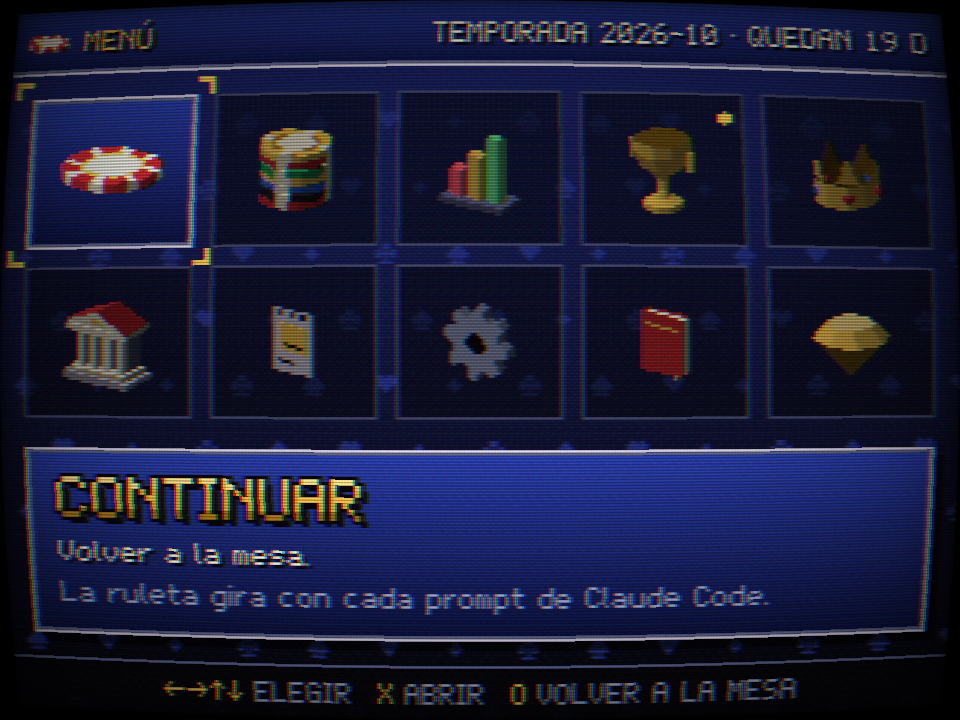
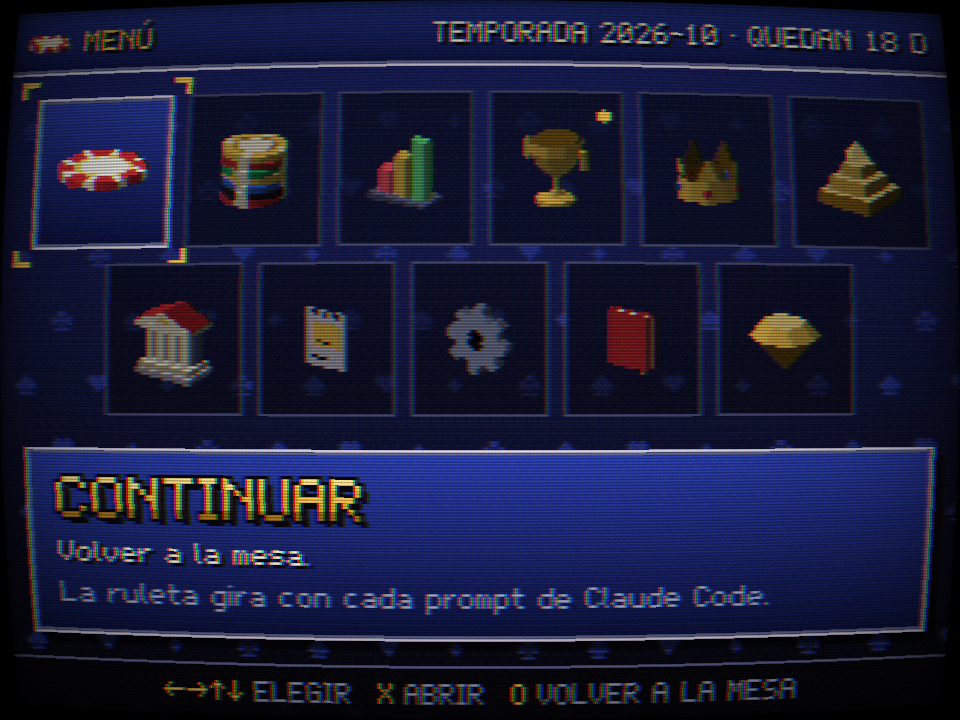
test(web): añade los E2E de /r/<código>, AFILIADOS y el aviso de comisión
Añade el guion fx=commission a la demo, la flecha de más contenido en
AFILIADOS, el titular de la invitación junto al avatar, y actualiza la
navegación de los E2E a la rejilla de 6+5 y la sección nueva de privacidad.

Changed region(s): [[0.0, 0.0917, 0.9688, 0.5806], [0.9062, 0.0611, 0.9375, 0.0917]]

diff --git a/packages/web/e2e/referral.spec.ts b/packages/web/e2e/referral.spec.ts
@@ -1,0 +1,159 @@
+// SPDX-License-Identifier: AGPL-3.0-or-later
+// E2E del Programa de Afiliados Piramidal (legalmente distinto) contra la pila real: la página
+// pública /r/<código> (quién invita, oculto o no, código inexistente, CSP) y la pantalla AFILIADOS
+// de la ventana con el código y el enlace del servidor. Capturas: invite, invite-en,
+// invite-missing, menu-referral y menu-referral-en.
+import { expect, test } from '@playwright/test'
+import type { APIRequestContext, Browser, Page } from '@playwright/test'
+import { API_ROUTES, PROTOCOL_VERSION, referralResponseSchema } from '@vibe-gambling/shared'
+
+import { freshLogin, linkUrl, screens, shot } from './support.ts'
+import type { Hooks } from './support.ts'
+
+const login = `e2e-${process.env.E2E_RUN_ID}`
+
+async function referralOf(request: APIRequestContext, token: string) {
+  const res = await request.get(API_ROUTES.referral.path, {
+    headers: { authorization: `Bearer ${token}` },
+  })
+  expect(res.ok()).toBe(true)
+  return referralResponseSchema.parse(await res.json()).referral
+}
+
+async function setHidden(request: APIRequestContext, token: string, hidden: boolean) {
+  const res = await request.post(API_ROUTES.settings.path, {
+    headers: { authorization: `Bearer ${token}` },
+    data: { v: PROTOCOL_VERSION, hidden },
+  })
+  expect(res.ok()).toBe(true)
+}
+
+/** Página nueva en un idioma, que falla el test si la CSP bloquea algo o hay errores. */
+async function pageIn(browser: Browser, locale: string) {
+  const context = await browser.newContext({ locale, viewport: { width: 1280, height: 900 } })
+  const page = await context.newPage()
+  const problems: string[] = []
+  page.on('console', m => {
+    if (m.type() === 'error') problems.push(m.text())
+  })
+  page.on('pageerror', e => problems.push(String(e)))
+  return { context, page, problems }
+}
+
+test('página /r/<código>: quién invita, oculto, inexistente y CSP', async ({
+  browser,
+  request,
+}) => {
+  const token = await freshLogin(request)
+  const referral = await referralOf(request, token)
+  expect(referral.url).toMatch(new RegExp(`/r/${referral.code}$`))
+
+  const es = await pageIn(browser, 'es-ES')
+  const res = await es.page.goto(new URL(referral.url).pathname)
+  expect(res?.status()).toBe(200)
+  const csp = res?.headers()['content-security-policy'] ?? ''
+  expect(csp).toContain("script-src 'self'")
+  expect(csp).not.toContain('unsafe-inline')
+  await expect(es.page.locator('#invite-who')).toHaveText(`@${login} te ha invitado`)
+  await expect(es.page.locator('#invite-redeem')).toHaveText(`/vibe-redeem ${referral.code}`)
+  await expect(es.page.locator('#invite-avatar')).toBeVisible()
+  await expect(es.page).toHaveTitle(/Te han invitado/)
+  await es.page.waitForTimeout(300)
+  await shot(es.page, 'invite', true)
+
+  // En minúsculas y con guion también vale (la página normaliza el código de la URL).
+  const lower = `${referral.code.slice(0, 4).toLowerCase()}-${referral.code.slice(4)}`
+  await es.page.goto(`/r/${lower}`)
+  await expect(es.page.locator('#invite-redeem')).toHaveText(`/vibe-redeem ${referral.code}`)
+
+  // Oculto del ranking: la página no dice quién es.
+  await setHidden(request, token, true)
+  await es.page.goto(new URL(referral.url).pathname)
+  await expect(es.page.locator('#invite-who')).toHaveText('Alguien te ha invitado')
+  await expect(es.page.locator('#invite-avatar')).toBeHidden()
+  expect(await es.page.content()).not.toContain(login)
+  await setHidden(request, token, false)
+
+  // Código que no existe: el mismo aviso amable, sin paso de canje.
+  await es.page.goto('/r/ZZZZ9999')
+  await expect(es.page.locator('#invite-state')).toContainText('no existe')
+  await expect(es.page.locator('#invite-redeem-step')).toBeHidden()
+  await expect(es.page.locator('#invite-install')).not.toBeEmpty()
+  await shot(es.page, 'invite-missing', true)
+  expect(es.problems).toEqual([])
+  await es.context.close()
+
+  const en = await pageIn(browser, 'en-GB')
+  await en.page.goto(new URL(referral.url).pathname)
+  await expect(en.page.locator('#invite-who')).toHaveText(`@${login} invited you`)
+  await en.page.waitForTimeout(300)
+  await shot(en.page, 'invite-en', true)
+  expect(en.problems).toEqual([])
+  await en.context.close()
+})
+
+async function waitScreen(page: Page, id: string) {
+  await page.waitForFunction(
+    s => (window as unknown as { __vg?: Hooks }).__vg?.screens().includes(s) ?? false,
+    id,
+  )
+}
+
+/** Ventana del juego con sesión, en un idioma. */
+async function windowIn(
+  browser: Browser,
+  request: APIRequestContext,
+  token: string,
+  locale: string,
+) {
+  const context = await browser.newContext({ locale, viewport: { width: 960, height: 720 } })
+  const page = await context.newPage()
+  await page.addInitScript(() => localStorage.setItem('vibe-gambling:tip-seen', '1'))
+  await page.goto(`${await linkUrl(request, token)}&noboot&nogpuwarn`)
+  await page.waitForFunction(
+    () => ((window as unknown as { __vg?: Hooks }).__vg?.state().user ?? null) !== null,
+  )
+  if ((await screens(page)).includes('pendingNotice')) await page.keyboard.press('o')
+  return { context, page }
+}
+
+/** START → AFILIADOS (la última de la fila de arriba: ← desde CONTINUAR). */
+async function openReferral(page: Page) {
+  await page.keyboard.press('p')
+  await waitScreen(page, 'menu')
+  await page.keyboard.press('ArrowLeft')
+  await page.waitForTimeout(1300)
+  await page.keyboard.press('x')
+  await waitScreen(page, 'referral')
+}
+
+test('pantalla AFILIADOS con el código y el enlace del servidor', async ({ browser, request }) => {
+  const token = await freshLogin(request)
+  const referral = await referralOf(request, token)
+
+  const es = await windowIn(browser, request, token, 'es-ES')
+  // La rejilla con AFILIADOS elegida: su icono 3D y su texto.
+  await es.page.keyboard.press('p')
+  await waitScreen(es.page, 'menu')
+  await es.page.keyboard.press('ArrowLeft')
+  await expect(es.page.locator('#live')).toContainText('AFILIADOS')
+  await es.page.waitForTimeout(1300)
+  await shot(es.page, 'menu-main-referral')
+  await es.page.keyboard.press('o')
+  await es.page.waitForTimeout(300)
+
+  await openReferral(es.page)
+  await expect(es.page.locator('#live')).toContainText(
+    `Tu código ${referral.code}. 0 invitados, 0 activados, 0 monedas ganadas.`,
+  )
+  await es.page.waitForTimeout(1300)
+  await shot(es.page, 'menu-referral')
+  await es.context.close()
+
+  const en = await windowIn(browser, request, token, 'en-GB')
+  await openReferral(en.page)
+  await expect(en.page.locator('#live')).toContainText(`Your code ${referral.code}.`)
+  await en.page.waitForTimeout(1300)
+  await shot(en.page, 'menu-referral-en')
+  await en.context.close()
+})

diff --git a/packages/web/e2e/stack.spec.ts b/packages/web/e2e/stack.spec.ts
@@ -110,14 +110,14 @@ test('la ventana juega una ronda de verdad contra el servidor', async ({
   await page.keyboard.press('p')
   await page.waitForTimeout(200)
   await shot(page, 'menu')
-  // Rejilla de 5×2: MEMORY CARD es la segunda de la fila de abajo.
+  // Rejilla de 6+5: MEMORY CARD es la segunda de la fila de abajo.
   await page.keyboard.press('ArrowDown')
   await page.keyboard.press('ArrowRight')
   await page.keyboard.press('x')
   await page.waitForTimeout(400)
   expect(await screens(page)).toContain('memoryCard')
   await shot(page, 'memory-card')
-  // Vuelta a la rejilla y a CLASIFICACIÓN (la última de la fila de arriba).
+  // Vuelta a la rejilla y a CLASIFICACIÓN (la quinta de la fila de arriba).
   await page.keyboard.press('o')
   await page.keyboard.press('ArrowUp')
   await page.keyboard.press('ArrowRight')
@@ -332,7 +332,7 @@ test('landing con el ranking y página de privacidad', async ({ page }) => {
   await page.waitForTimeout(2500)
   await shot(page, 'landing', true)
   await page.goto('/privacy')
-  await expect(page.locator('#sections h2')).toHaveCount(9)
+  await expect(page.locator('#sections h2')).toHaveCount(10)
   // Lo que depende de la instancia sale de /config.json (site.json y el entorno del servidor).
   const web = webConfigSchema.parse(await (await page.request.get('/config.json')).json())
   const { instance } = web.site

diff --git a/packages/web/src/net/demoFx.ts b/packages/web/src/net/demoFx.ts
@@ -18,6 +18,7 @@ export const DEMO_FX = [
   'fallacy',
   'achievement',
   'pending',
+  'commission',
 ] as const
 export type DemoFx = (typeof DEMO_FX)[number]
 
@@ -42,6 +43,8 @@ export interface DemoScenario {
    * guardada y baja como al gastarla. Vacío = no se toca.
    */
   pendingSteps: number[]
+  /** Comisión de afiliado de mentira (un invitado "se activa"), sin tirada. */
+  commission: boolean
 }
 
 /** Números rojos del cilindro europeo (para la racha de la falacia). */
@@ -58,6 +61,7 @@ export function demoScenario(kind: DemoFx, cfg: GameConfig): DemoScenario {
     gitPushOk: false,
     achievement: null,
     pendingSteps: [],
+    commission: false,
   }
   const bet = (selection: Bet['selection'], amount = chip): Bet => ({ selection, amount })
   switch (kind) {
@@ -104,5 +108,7 @@ export function demoScenario(kind: DemoFx, cfg: GameConfig): DemoScenario {
       return { ...base, bets: [bet({ kind: 'red' })], result: 3, achievement: 'first_spin' }
     case 'pending':
       return { ...base, pendingSteps: [19, 20, 19] }
+    case 'commission':
+      return { ...base, commission: true }
   }
 }

diff --git a/packages/web/src/ui/menu/pages/referral.ts b/packages/web/src/ui/menu/pages/referral.ts
@@ -289,7 +289,7 @@ export class ReferralPage implements MenuPage {
     this.lines()
       .slice(this.scroll, this.scroll + ROWS)
       .forEach((line, i) => {
-        const y = 152 + i * 14
+        const y = 150 + i * 13
         if (line.kind === 'text') {
           drawText(g, line.text, 16, y, { color: line.color })
           return
@@ -297,6 +297,10 @@ export class ReferralPage implements MenuPage {
         drawText(g, line.label, 16, y, { color: PALETTE.cream, shadow: PALETTE.ink })
         drawText(g, line.value, 304, y, { color: line.color, align: 'right', shadow: PALETTE.ink })
       })
+    // Hay más debajo (las reglas): una flecha discreta en la esquina, como pista del ↑↓.
+    if (this.scroll + ROWS < this.lines().length) {
+      drawText(g, '▼', 304, 204, { color: SECONDARY, align: 'right' })
+    }
   }
 
   private drawLoading(g: CanvasRenderingContext2D, t: number, x: number, y: number): void {

diff --git a/packages/web/e2e/fx.spec.ts b/packages/web/e2e/fx.spec.ts
@@ -243,6 +243,18 @@ test.describe('espectáculo', () => {
     await done(ach)
   })
 
+  test('comisión de afiliado: aviso con la pirámide y el saldo sumado', async ({ browser }) => {
+    const page = await open(browser, 'commission')
+    await page.waitForFunction(() =>
+      ((window as unknown as { __vg: FxHooks }).__vg.fx().notice ?? '').startsWith('commission:'),
+    )
+    // Sale con la mesa quieta y la cartera ya lleva la comisión.
+    await page.waitForTimeout(450)
+    await expect(page.locator('#live')).toContainText('Comisión de afiliado')
+    await shot(page, 'fx-commission-1')
+    await done(page)
+  })
+
   test('contador de pendientes: sube y baja como un odómetro', async ({ browser }) => {
     const page = await open(browser, 'pending')
     await page.waitForFunction(

diff --git a/packages/web/src/net/demo.ts b/packages/web/src/net/demo.ts
@@ -465,6 +465,20 @@ export class DemoLink implements Link, DemoAutoControl {
           : { v: PROTOCOL_VERSION, type: 'wallet', wallet: this.wallet },
       )
     }
+    if (sc.commission) {
+      // AFILIADOS: como si se activara un invitado (la demo no tiene a quién invitar).
+      const { commission, maxCommissionsPerSeason } = this.cfg.referral
+      this.setBalance(this.wallet.balance + commission)
+      this.emit({
+        v: PROTOCOL_VERSION,
+        type: 'referral.commission',
+        amount: commission,
+        capped: false,
+        commissions: 1,
+        cap: maxCommissionsPerSeason,
+        wallet: this.wallet,
+      })
+    }
     if (sc.result === null) return
     await this.turn({
       result: sc.result,

diff --git a/packages/web/src/styles/landing.css b/packages/web/src/styles/landing.css
@@ -441,17 +441,23 @@ h2 {
   padding-bottom: 24px;
 }
 
-.invite-from {
+/* Más pequeño que el titular de la portada: un login largo tiene que caber al lado del avatar. */
+.headline.invite-from {
   flex-direction: row;
-  flex-wrap: wrap;
-  gap: 16px;
+  gap: 24px;
   align-items: center;
+  font-size: var(--t2);
   overflow-wrap: anywhere;
 }
 
+.invite-from > span {
+  min-width: 0;
+}
+
 .invite-avatar {
-  width: 48px;
-  height: 48px;
+  width: 72px;
+  height: 72px;
+  box-shadow: 8px 8px 0 #000;
 }
 
 .invite-steps {
@@ -478,6 +484,10 @@ h2 {
 @media (min-width: 720px) {
   .headline {
     font-size: var(--t4);
+  }
+
+  .headline.invite-from {
+    font-size: var(--t3);
   }
 }
 

diff --git a/packages/web/e2e/menu.spec.ts b/packages/web/e2e/menu.spec.ts
@@ -181,7 +181,7 @@ test('capturas de cada pantalla del menú (demo, temporada de ejemplo)', async (
     'menu-achievements',
     ['ArrowDown'],
   )
-  await capture(page, ['ArrowLeft'], 'leaderboard', 'menu-ranking')
+  await capture(page, ['ArrowLeft', 'ArrowLeft'], 'leaderboard', 'menu-ranking')
   await capture(page, ['ArrowDown'], 'bank', 'menu-bank')
   await capture(page, ['ArrowDown', 'ArrowRight'], 'memoryCard', 'menu-memory')
   await capture(page, ['ArrowDown', 'ArrowRight', 'ArrowRight'], 'settings', 'menu-settings', [

diff --git a/packages/web/test/fx.test.ts b/packages/web/test/fx.test.ts
@@ -464,6 +464,7 @@ describe('guiones de la demo: cada uno da justo su animación', () => {
     expect(play('achievement').sc.achievement).toBe('first_spin')
     expect(play('bank').sc).toMatchObject({ result: null, wallet: { balance: 0 } })
     expect(play('pending').sc.pendingSteps).toEqual([19, 20, 19])
+    expect(play('commission').sc).toMatchObject({ result: null, commission: true })
   })
 
   it('todas las apuestas de los guiones caben en las reglas de la mesa', () => {

diff --git a/packages/web/e2e/smoke.spec.ts b/packages/web/e2e/smoke.spec.ts
@@ -111,7 +111,7 @@ test.describe('humo', () => {
       `${baseURL}/og.png`,
     )
     await page.goto('/privacy')
-    await expect(page.locator('#sections h2')).toHaveCount(9)
+    await expect(page.locator('#sections h2')).toHaveCount(10)
     await expect(page.locator('#footer .attribution')).toBeVisible()
     expect(w.csp).toEqual([])
     expect(w.errors).toEqual([])
